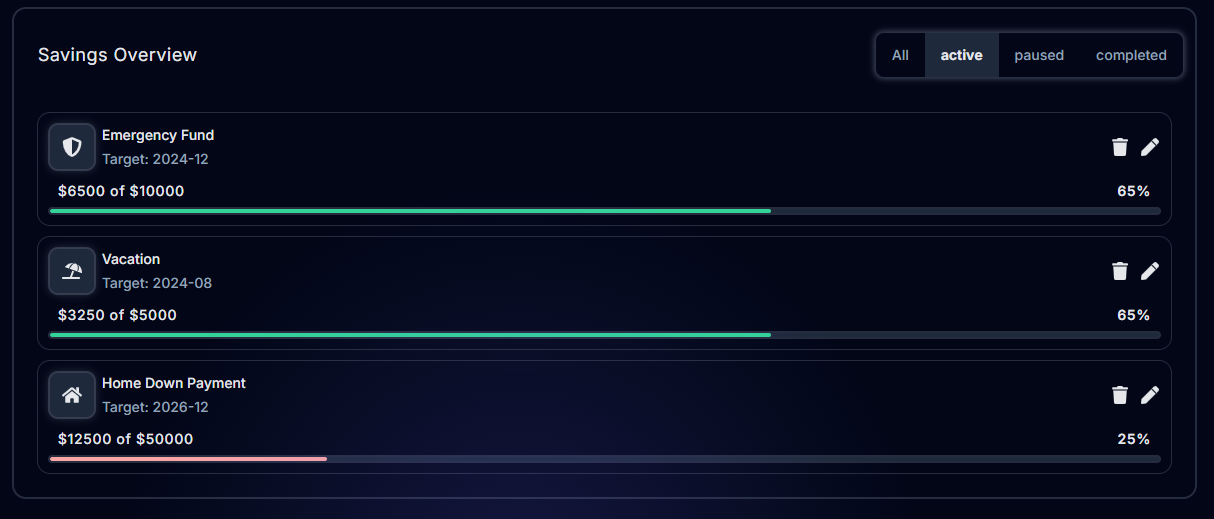
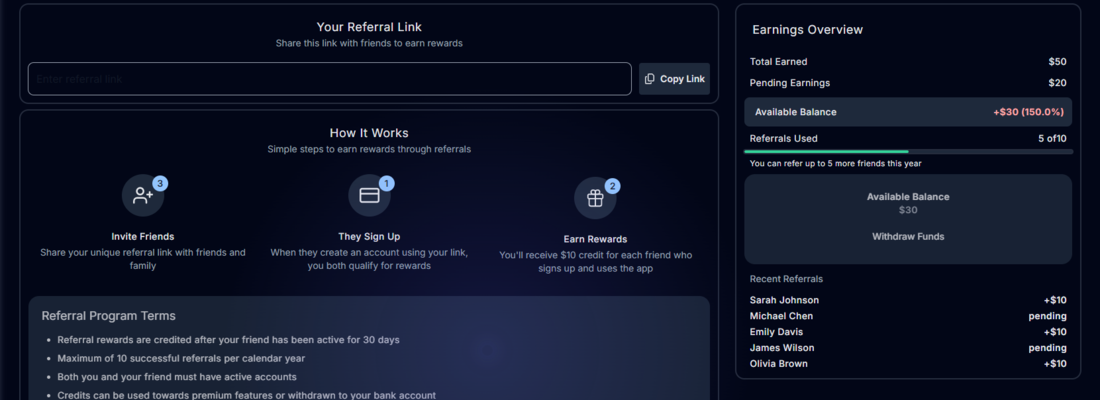
again samething

diff --git a/src/storage/data/services.ts b/src/storage/data/services.ts
@@ -7,15 +7,11 @@ import { type ServiceTypes } from "../type/data-type";
 
 export const serviceImages = {
   webDesign: ["/services/w1.png", "/services/r2.png", "/services/r3.png"],
-  webDev: ["/services/m1.png", "/services/m2.png", "/services/m3.png"],
+  webDev: ["/services/wb.png", "/services/m2.png", "/services/m3.png"],
   creative: ["/services/c1.png", "/services/c2.png", "/services/c3.png"],
   responsive: ["/services/r1.png", "/services/r2.png", "/services/r3.png"],
-  architecture: [
-    "/services/service3.jpg",
-    "/services/m2.png",
-    "/services/r3.png",
-  ],
-  Support: ["/services/s1.jpg", "/services/s2.png", "/services/s3.png"],
+  architecture: ["/services/fa.png", "/services/m2.png", "/services/r3.png"],
+  Support: ["/services/s1.png", "/services/s2.png", "/services/s3.png"],
 };
 
 export const services: ServiceTypes = [
